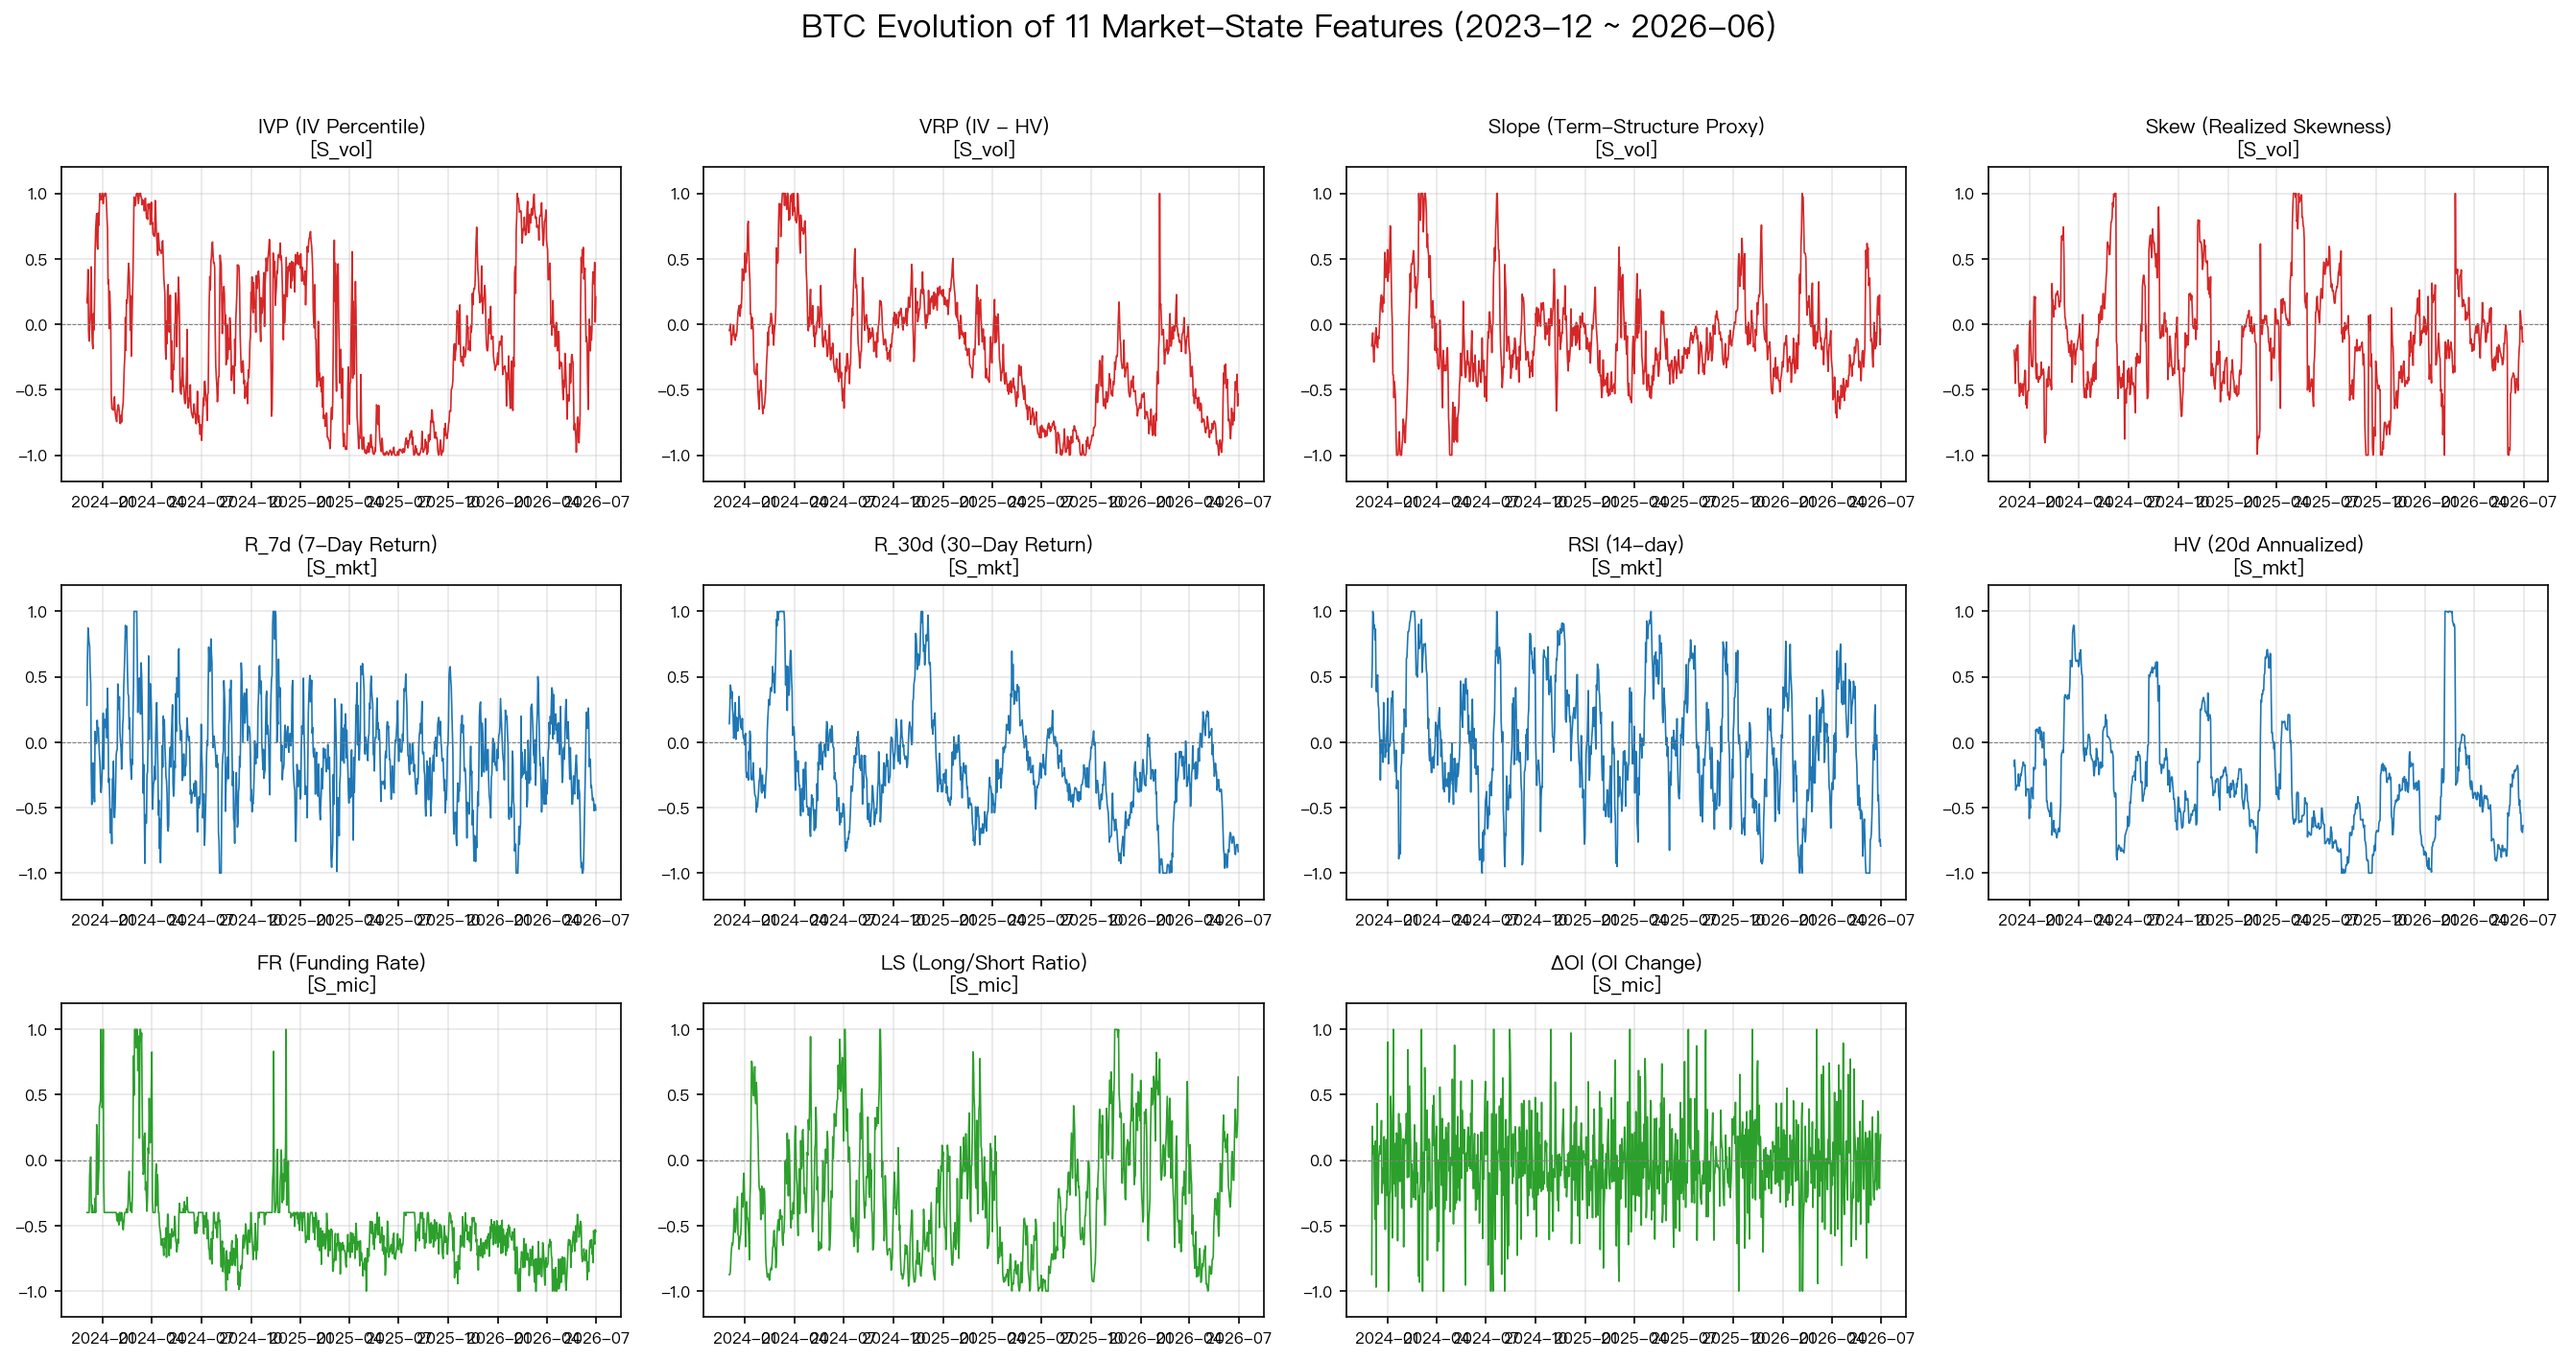
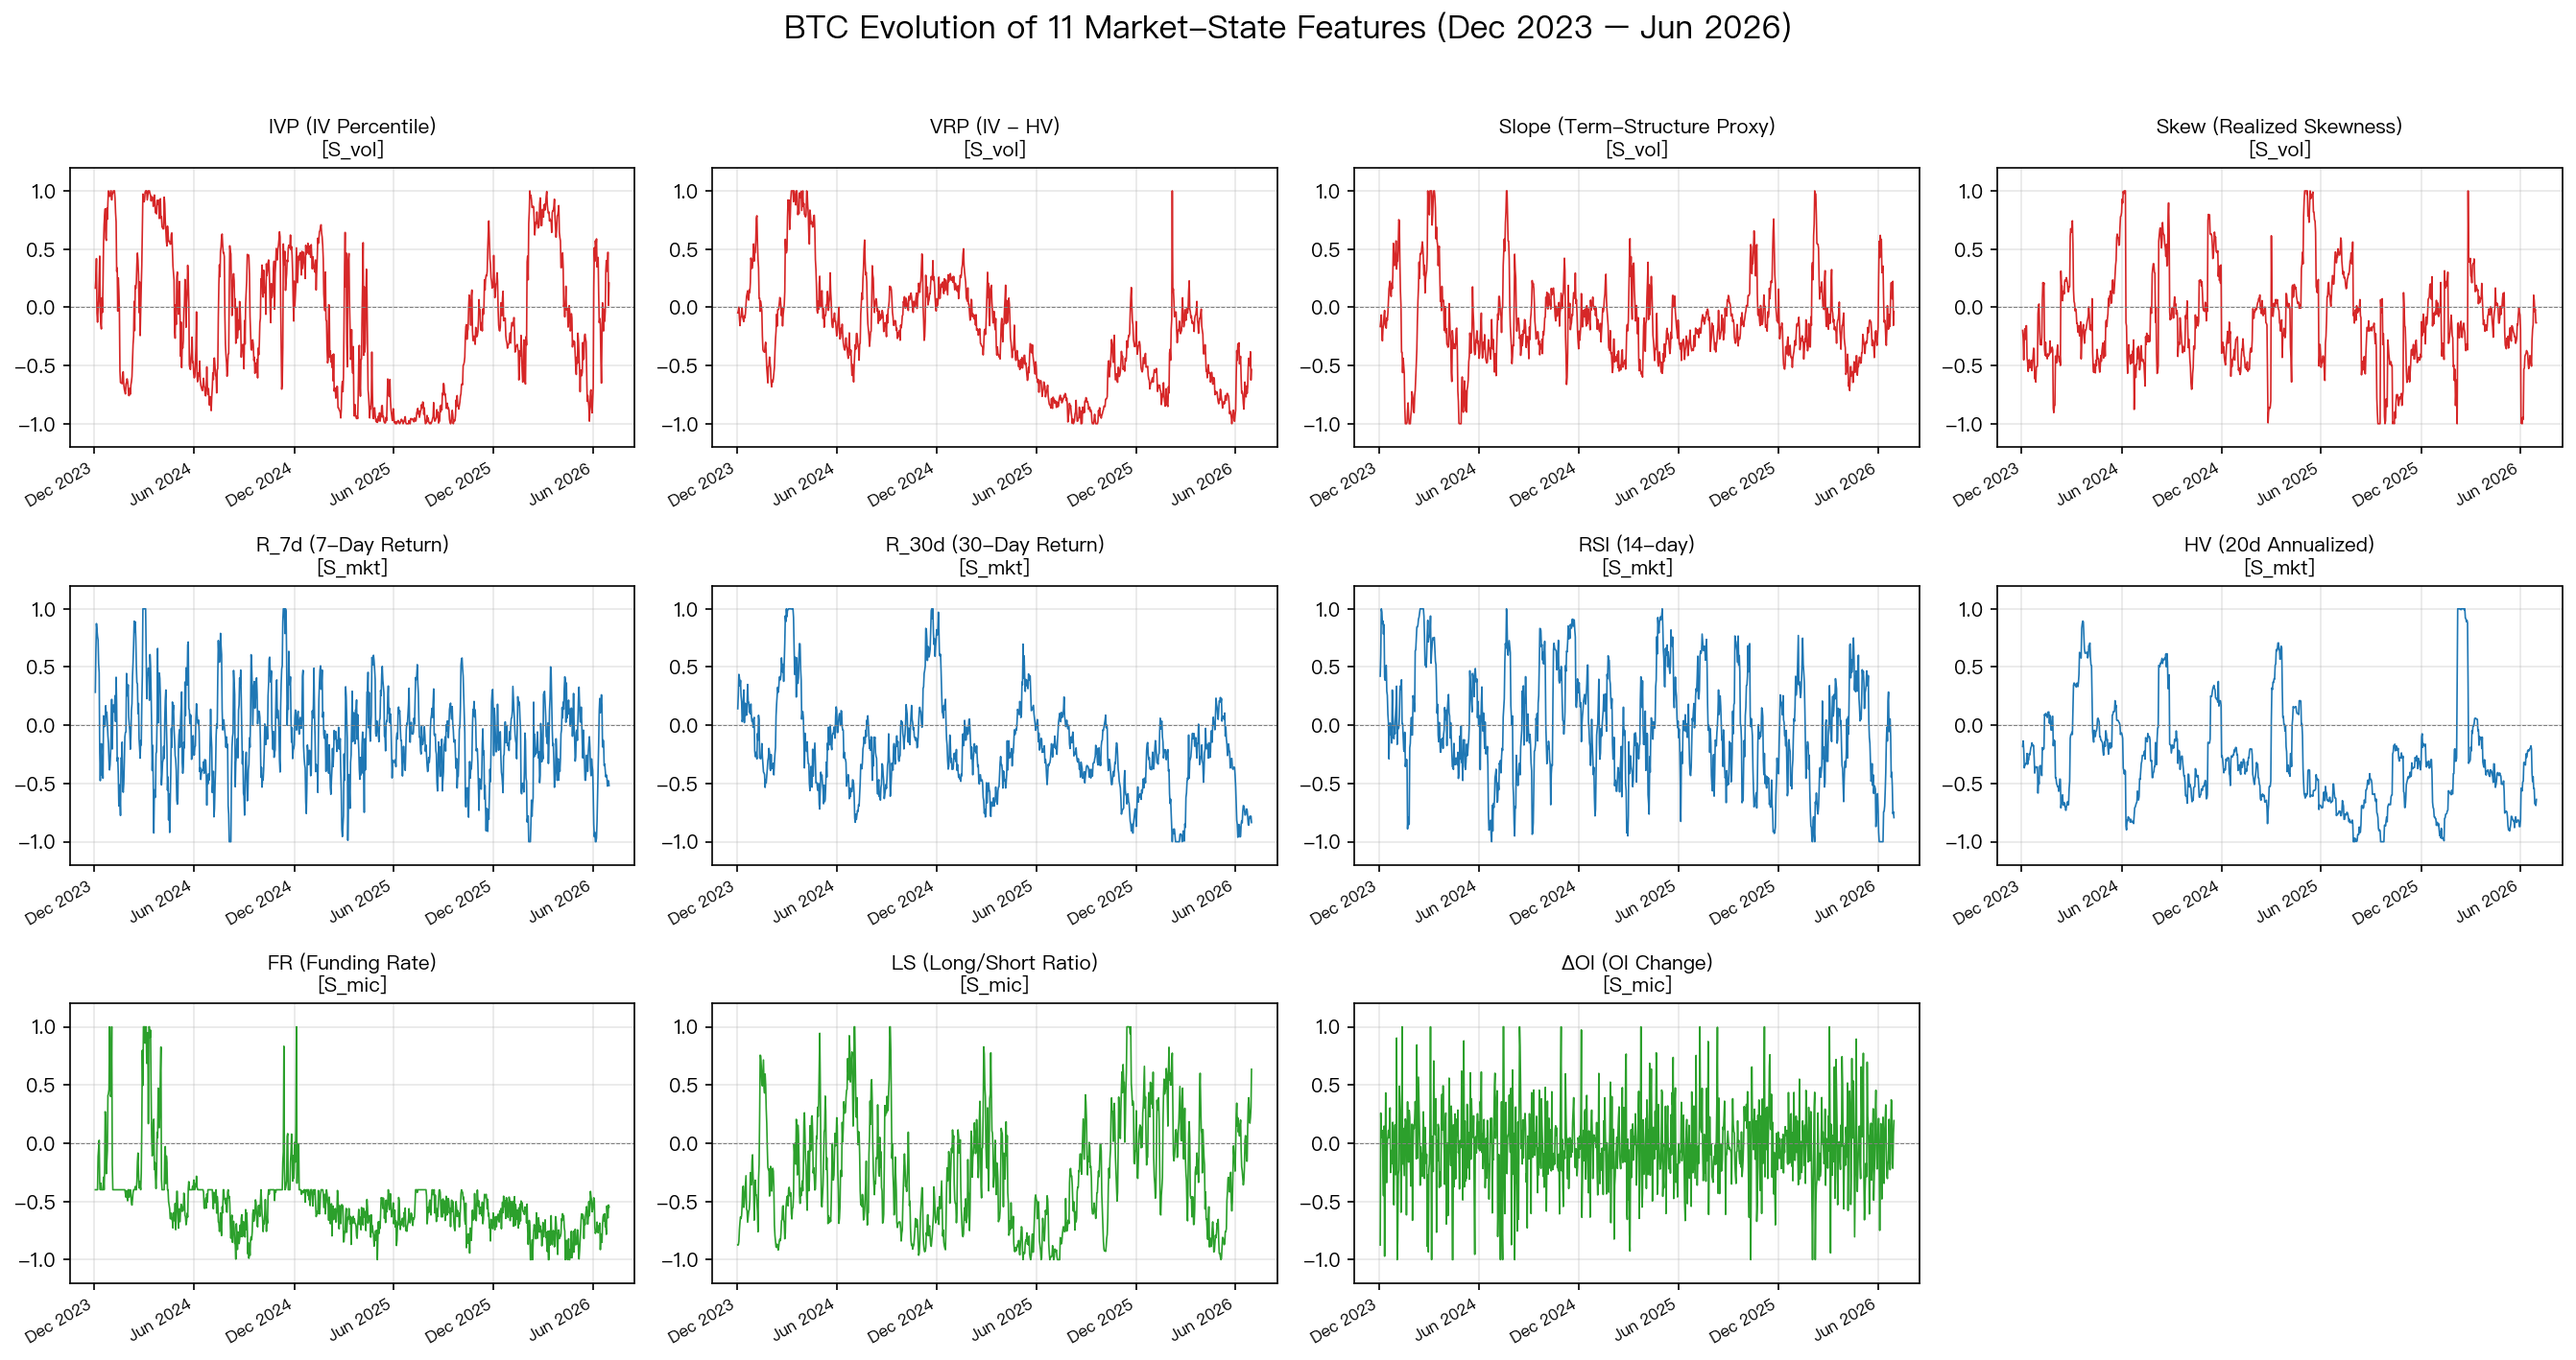
Polish plots and align engine docs for review
- Fix X-axis date-tick overlap in feature-evolution plots (6-month locator,
  30-deg rotation, right alignment) and switch to English month abbreviations
  (%b %Y); update the title range to "Dec 2023 – Jun 2026".
- Sync the strike-adaptation docstring to §3.5.1 with the 10% static OTM
  proxy for the 25-delta target note, matching the manuscript.
- Floor the option premium in the taker-fee call when closing a short leg
  for robustness, consistent with the other legs.

diff --git a/scripts/02_retrieve_and_replay.py b/scripts/02_retrieve_and_replay.py
@@ -218,8 +218,17 @@ class Leg:
 def build_legs(strategy: str, S0: float) -> list[Leg]:
     """Build the option legs according to the strategy rules (DTE=30, strikes mapped from the underlying price).
 
-    Strike mapping (§3.4.1): straddles use ATM (= S0); covered calls and bull call spreads use 10% OTM
-    (tuned out-of-sample; 10% OTM improves the risk-adjusted Sharpe over 5% OTM on BTC/ETH).
+    Strike mapping (§3.5.1: strike adaptation): straddles use ATM (= S0); covered calls and bull call
+    spreads use a 10% static OTM offset.
+
+    Note on the 10% OTM and the 25-delta target: §3.5.1 describes OTM strikes as K = S0*(1±delta), where
+    delta would ideally be derived from the current 25-delta implied volatility to maintain a consistent
+    delta target. In the implementation, a fixed 10% static offset is used as a robust proxy for this
+    dynamic 25-delta target (static percentage offset as a robust proxy for 25-delta): it is tuned
+    out-of-sample, improving the risk-adjusted Sharpe over 5% OTM on BTC/ETH, and it avoids the extra
+    computation and modeling error of fitting an IV surface for every historical options chain, thereby
+    keeping a consistent delta positioning across the full sample. This simplification does not affect
+    the relative ordering of the strategies or the state-conditioned selection conclusions.
     """
     if strategy == "long_straddle":
         return [Leg(CALL, BUY, S0), Leg(PUT, BUY, S0)]
@@ -312,7 +321,7 @@ def replay_strategy(
                 close_cf += px - fee
             else:
                 px = P * (1 + spread)       # close sell leg by buying back at ask
-                fee = taker_fee(px, lastS)
+                fee = taker_fee(max(px, 1e-9), lastS)
                 close_cf -= px + fee
             fees += fee
 

diff --git a/scripts/01b_plot_state.py b/scripts/01b_plot_state.py
@@ -14,6 +14,7 @@ from pathlib import Path
 import matplotlib
 matplotlib.use("Agg")
 import matplotlib.pyplot as plt
+import matplotlib.dates as mdates
 import pandas as pd
 
 # Font configuration (macOS)
@@ -73,7 +74,7 @@ def plot_evolution(symbol: str) -> str:
     ncols = 4
     nrows = -(-len(features) // ncols)  # ceil division
     fig, axes = plt.subplots(nrows, ncols, figsize=(18, nrows * 3.2))
-    fig.suptitle(f"{symbol} Evolution of {len(features)} Market-State Features (2023-12 ~ 2026-06)", fontsize=16, fontweight="bold")
+    fig.suptitle(f"{symbol} Evolution of {len(features)} Market-State Features (Dec 2023 – Jun 2026)", fontsize=16, fontweight="bold")
     axes = axes.flatten()
 
     for i, col in enumerate(features):
@@ -83,7 +84,13 @@ def plot_evolution(symbol: str) -> str:
         ax.set_title(f"{FEATURE_NAMES[col]}\n[{SUBSPACE[col]}]", fontsize=10)
         ax.set_ylim(-1.2, 1.2)
         ax.grid(True, alpha=0.3)
-        ax.tick_params(labelsize=8)
+        # Control X-axis date ticks to avoid label overlap in narrow subplots:
+        # ~1 tick per half-year + 30 deg rotation + right alignment.
+        ax.xaxis.set_major_locator(mdates.MonthLocator(interval=6))
+        ax.xaxis.set_major_formatter(mdates.DateFormatter("%b %Y"))
+        ax.tick_params(axis="x", labelsize=8, rotation=30)
+        for _lb in ax.get_xticklabels():
+            _lb.set_ha("right")
 
     # Hide unused empty subplots
     for j in range(len(features), len(axes)):
